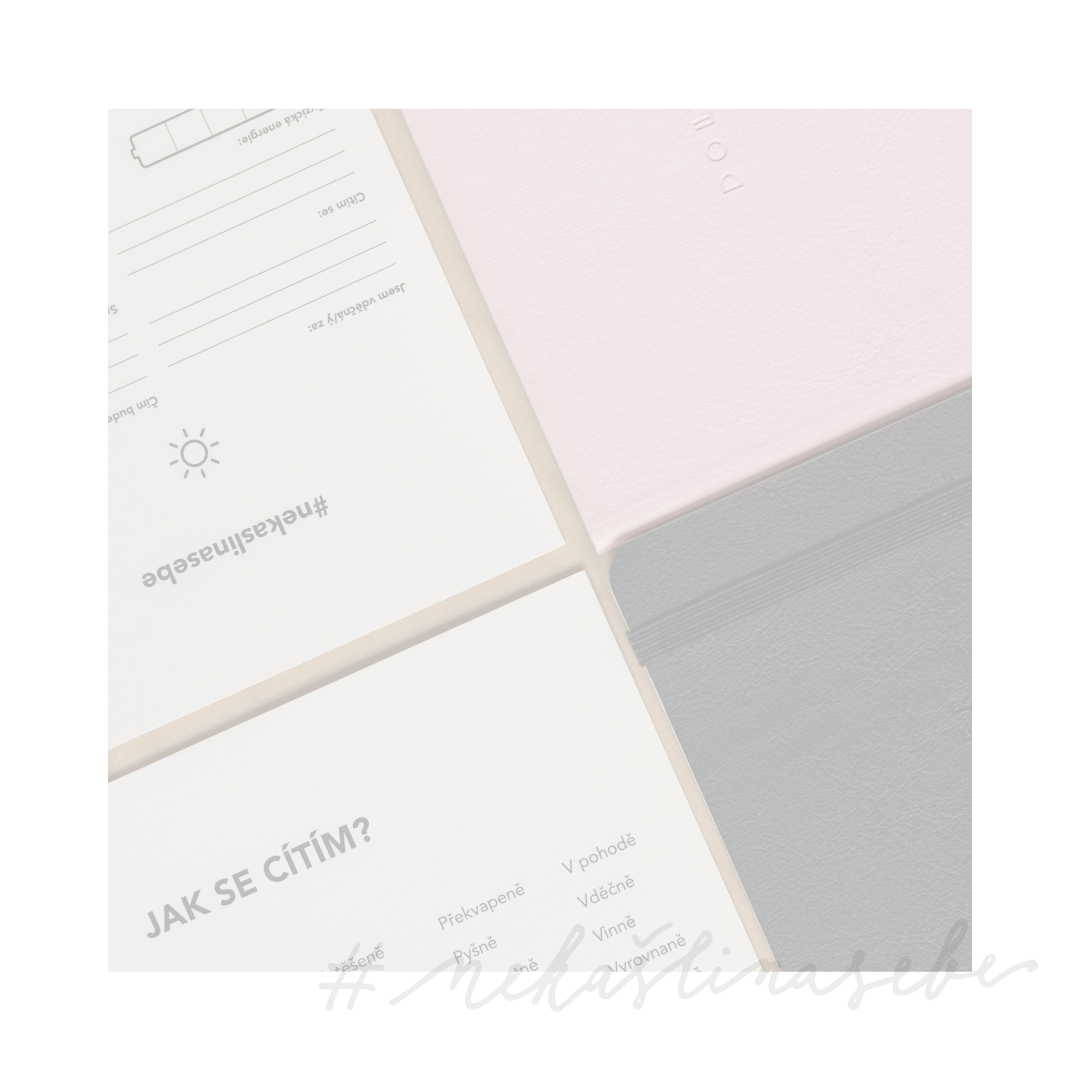
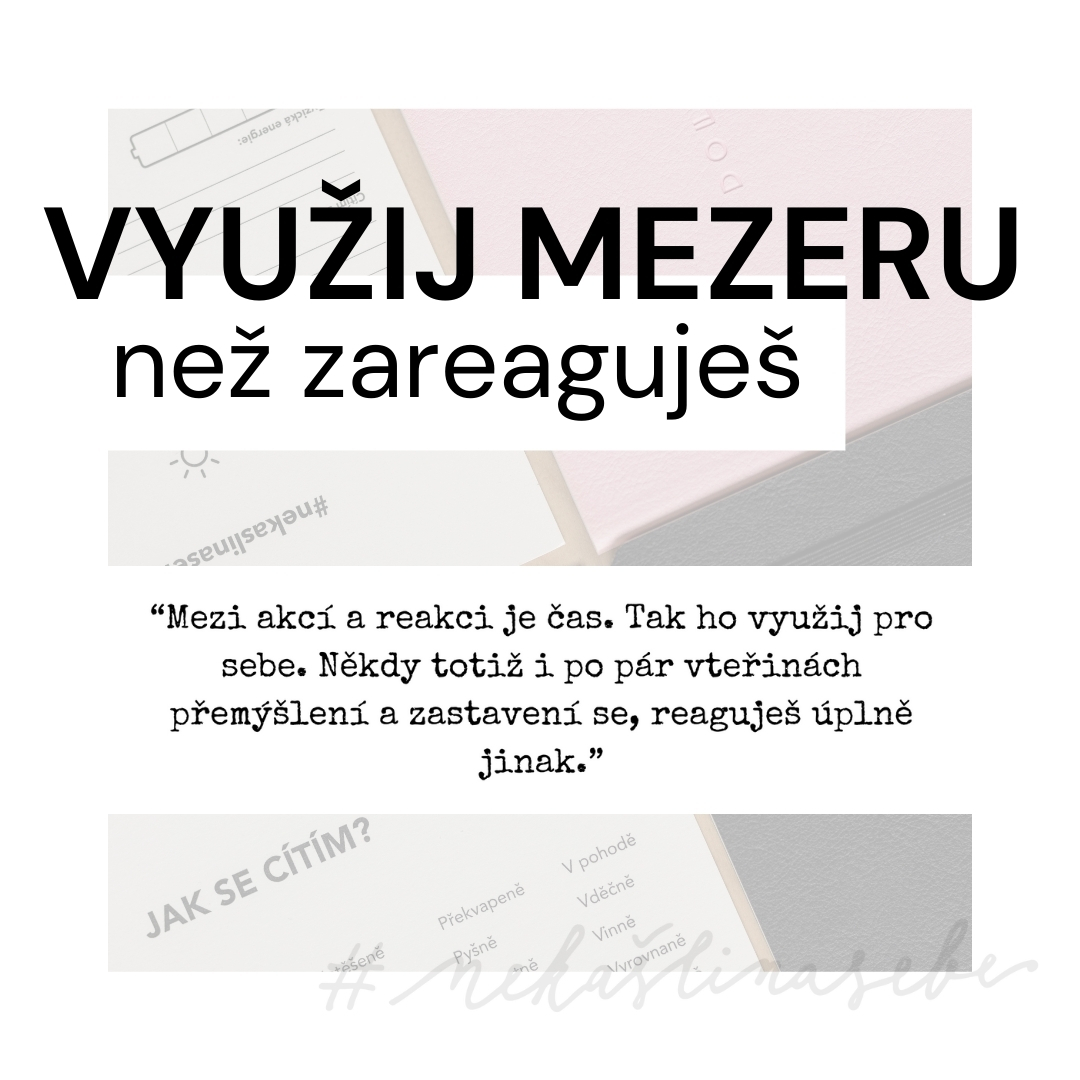
monday 2tip

diff --git a/tips/tip2.html b/tips/tip2.html
@@ -80,7 +80,7 @@
         <div class="row mb-4 align-items-center">
           <div class="col-md-6" data-aos="fade-up">
             <h2>2.tip #nekaslinasebe</h2>
-            <p>Úterní tip právě připravujeme.</p>
+            <p>Emoce nám někdy dávají pěkně zabrat. Nebo se mýlím? Pojďme se dnes podívat na to, jak s nimi můžeme jednoduše pracovat. Někdy na emoci ihned reagujeme. Jsme nevrlí na ostatní. Reagujeme podrážděně nebo na druhého vyjedeme. U sebe samotných můžeme mít tendenci se emoci či nepříjemného pocitu vyhnout nebo se jím nechat pohltit. Prostě emoce raději nemít. Dneska si připomene jednu důležitou věc. Mezi akcí a reakcí je čas. Tak ho využij pro sebe. Někdy i po pár vteřinách přemýšlení se a zastavení se, reaguješ úplně jinak.</p>
           </div>
         </div>
       </div>
